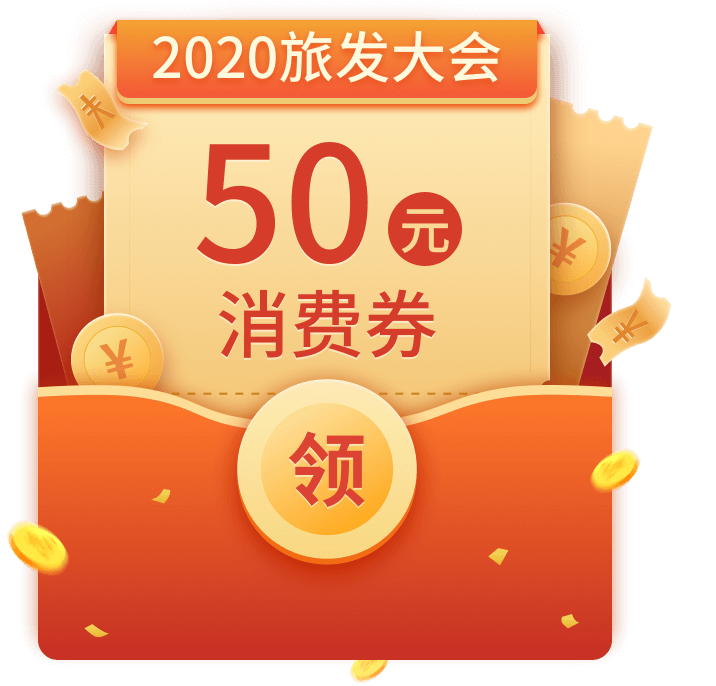
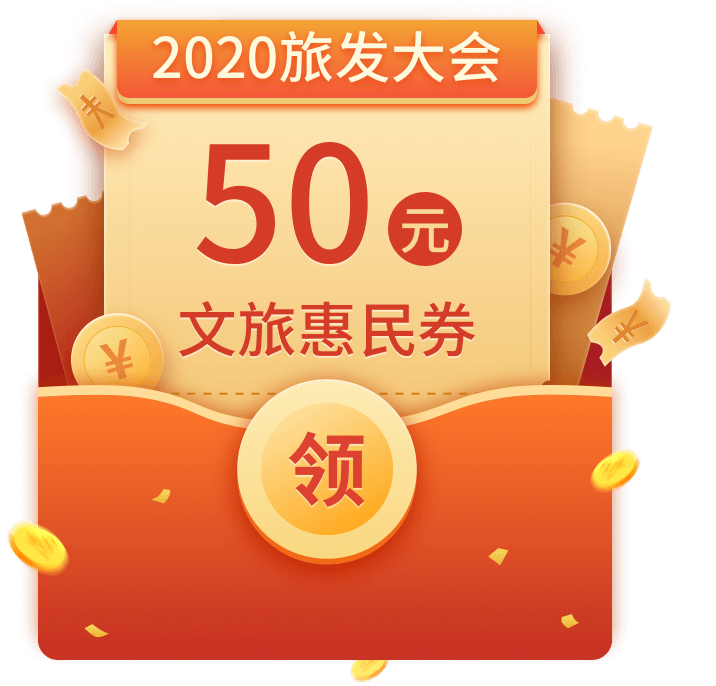
优惠卷列表 popupLogo居中

Changed region(s): [[0.2458, 0.4286, 0.676, 0.5204]]

diff --git a/src/pages/me/coupons/list.vue b/src/pages/me/coupons/list.vue
@@ -29,23 +29,24 @@
                                         <div class="price">
                                             <div class="flex price-top">
                                                 <div class="type">¥</div>
-                                                <div class="number">10</div>
+                                                <div class="number">{{item.denomination}}</div>
                                             </div>
                                             <div class="price-bottom">
-                                                满100可用
+                                                满{{item.purchase}}可用
                                             </div>
                                         </div>
                                         <div class="content flex col-center row-between">
                                             <div class="c-left flex flex-column col-center row-between">
-                                                <div class="name">特产通用劵</div>
-                                                <div class="time">有效期至2020年8月30日</div>
+                                                <div class="name">{{item.couponTitle}}</div>
+                                                <div class="time">{{item.usePeriod}}</div>
                                             </div>
-                                            <div v-if="index!==1" class="c-right deductionOption flex flex-column">
-                                                <div class="deduction flex col-center"  v-if="index!==1">
+                                            <!--1 未领取 2 已领取 3 已消费-->
+                                            <div v-if="item.userState!==3" class="c-right deductionOption flex flex-column">
+                                                <div class="deduction flex col-center" v-if="item.userState==1">
                                                     <img class="Icon_checked" src="./images/icon_check.png" alt="">
                                                     <div class="desc">自动抵扣</div>
                                                 </div>
-                                                <div v-if="index==1" class="optionBtn flex row-center col-center">领取</div>
+                                                <div v-if="item.userState==1" class="optionBtn flex row-center col-center" @click="handleCoupon(item.stockId)">领取</div>
                                                 <div v-else class="optionBtn active flex row-center col-center">已领取</div>
                                             </div>
                                             <div v-else class="c-right received-box">
@@ -72,6 +73,7 @@
 </template>
 
 <script>
+    import memberApi from '@/api/member.js'
     export default {
         name: "coupons",
         data(){
@@ -80,7 +82,8 @@
                 couponList:[],
                 loading:false,
                 finished:false,
-                reloading:false
+                reloading:false,
+                user:JSON.parse(localStorage.user)
             }
         },
         methods:{
@@ -88,27 +91,42 @@
                 this.$router.push({path:'./coupons/couponRule'})
             },
             onLoad() {//滚动加载
-                setTimeout(() => {
-                    for (let i = 0; i < 3; i++) {
-                        this.couponList.push(this.couponList.length + 1);
-                    }
-                    this.loading = false;
+                // setTimeout(() => {
+                //     for (let i = 0; i < 3; i++) {
+                //         this.couponList.push(this.couponList.length + 1);
+                //     }
+                //     this.loading = false;
+                //
+                //     if (this.couponList.length >=10) {
+                //         this.finished = true;
+                //     }
+                // }, 1000);
+                this.getCouponList()
 
-                    if (this.couponList.length >=10) {
-                        this.finished = true;
-                    }
-                }, 1000);
             },
             onRefresh(){//下拉刷新
-                setTimeout(() => {
-                    let arr=[]
-                    for (let i = 0; i < 3; i++) {
-                        arr.push(arr.length + 1);
-                        this.reloading = false;
+                this.reloading = false;
+                this.getCouponList()
+
+            },
+            getCouponList(){
+                this.couponList =[]
+                memberApi.getCouponList({userId:this.user.id}).then(res =>{
+                    if(res.data&&res.data.length){
+                        this.couponList = res.data
+                        this.loading = false;
+                        this.finished = true;
+                        this.$refs.uiPull.endSuccess()
+                    }else{
+                        this.loading = false;
+                        this.finished = true;
                     }
-                    this.couponList = arr
-                    this.finished = false;
-                }, 500);
+                })
+            },
+            handleCoupon(stockId){
+                memberApi.useCoupon({stockId:stockId,userId:this.user.id}).then(res =>{
+                    this.getCouponList()
+                })
             }
         }
     }

diff --git a/src/api/member.js b/src/api/member.js
@@ -8,10 +8,18 @@ const submitFeedback = (params) =>
     vue.$http.post(`/guest/meet/sumitOption`, params);
 const getFeedbackList = (params) =>
     vue.$http.get(`/guest/meet/myoption`, {params:params});
+//优惠卷相关
+const getCouponList = (params) =>
+    vue.$http.get(`/common/coupon/list`, {params:params});
+const useCoupon = (params) =>
+    vue.$http.post(`/common/coupon/getCoupon`, params);
+const feedbackCoupon = (params) =>
+    vue.$http.post(`/common/coupon/feedback`, params);
 export default {
-    uploadImgAndThumb,
-    uploadImg,
     submitFeedback,
-    getFeedbackList
+    getFeedbackList,
+    getCouponList,
+    useCoupon,
+    feedbackCoupon
 };
 

diff --git a/src/components/Popup/index.vue b/src/components/Popup/index.vue
@@ -9,7 +9,9 @@
             <div class="code">
 
                 <div v-if="isShowCode" style="width: 100%;height: 100%">
-                    <img class="puponImg" src="./pupon-50.png" alt="优惠券" @click.stop="openCoupons"/>
+                    <div class="flex row-center">
+                        <img class="puponImg" src="./pupon-50.png" alt="优惠券" @click.stop="openCoupons"/>
+                    </div>
                     <div class="close-icon" v-if="isShowCode" @click.stop="closeCode">
                         <img src="./icon_close.png" alt="关闭" />
                     </div>
